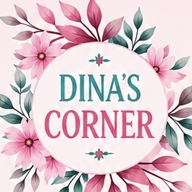
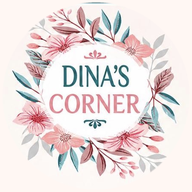
Add files via upload

diff --git a/menu.html b/menu.html
@@ -3,7 +3,7 @@
 <head>
 <meta charset="utf-8">
 <meta name="viewport" content="width=device-width,initial-scale=1,viewport-fit=cover">
-<meta name="theme-color" content="#C65F78">
+<meta name="theme-color" content="#087B78">
 <meta name="color-scheme" content="light">
 <meta name="description" content="Dina's Corner — public menu">
 <title>Dina's Corner — Our Menu</title>
@@ -16,6 +16,7 @@
 <script src="assets/config.js?v=20261116-gm-managed-locations-v1"></script>
 <script src="assets/public-menu-client.js?v=20261116-gm-managed-locations-v1"></script>
 <script>window.sb = window.POA_PUBLIC_MENU_DB || null;</script>
+<link rel="stylesheet" href="assets/dina-brand-identity.css?v=20261117-brand-identity-v1">
 </head>
 <body data-menu-standalone data-page="menu">
 <main class="public-menu-shell" aria-label="Dina's Corner menu">
